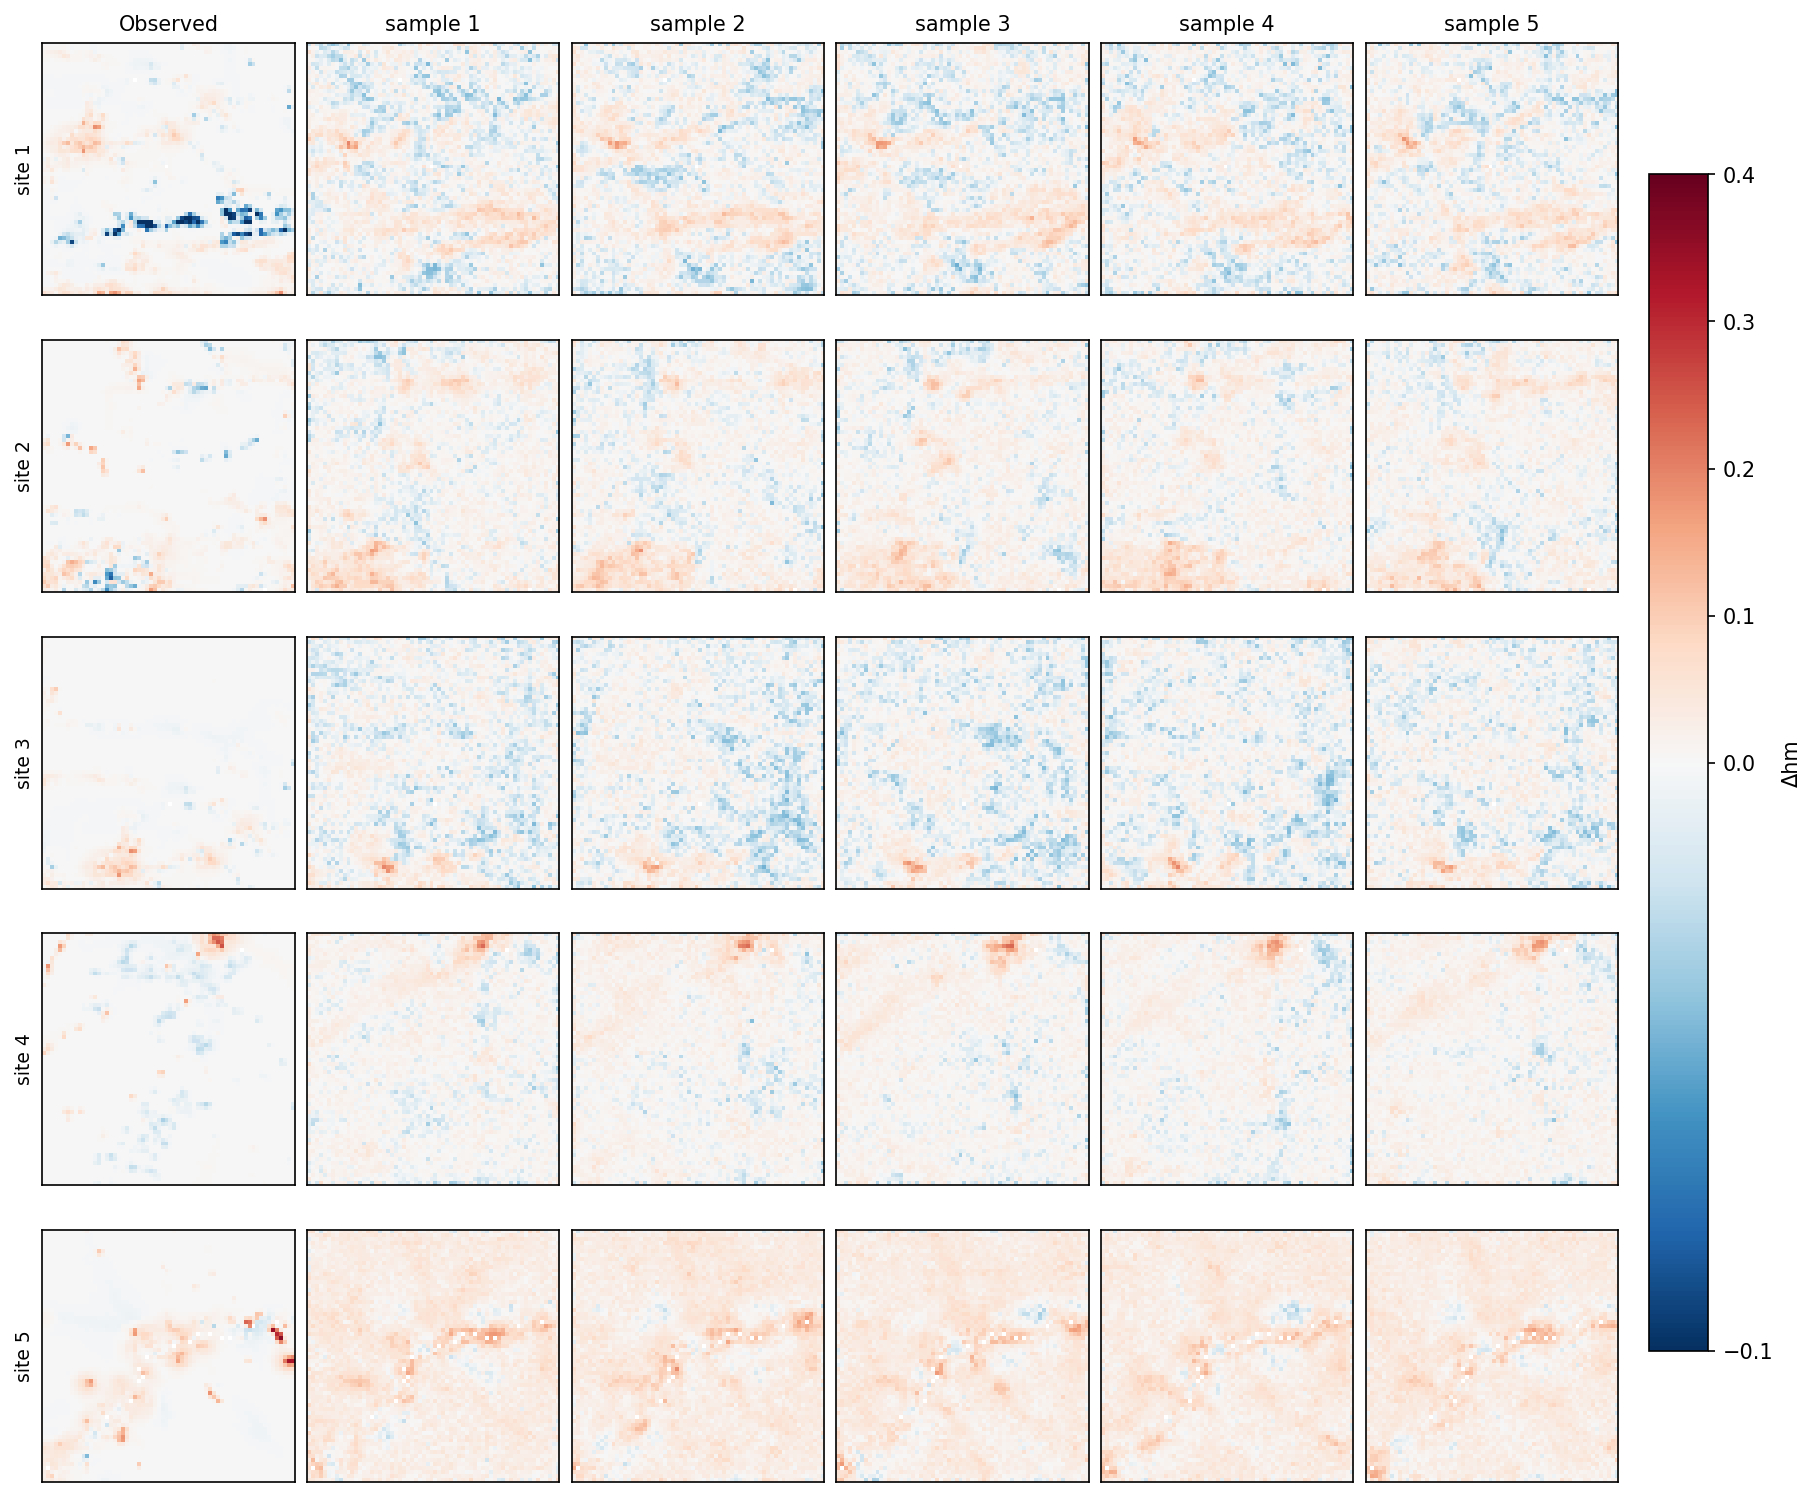
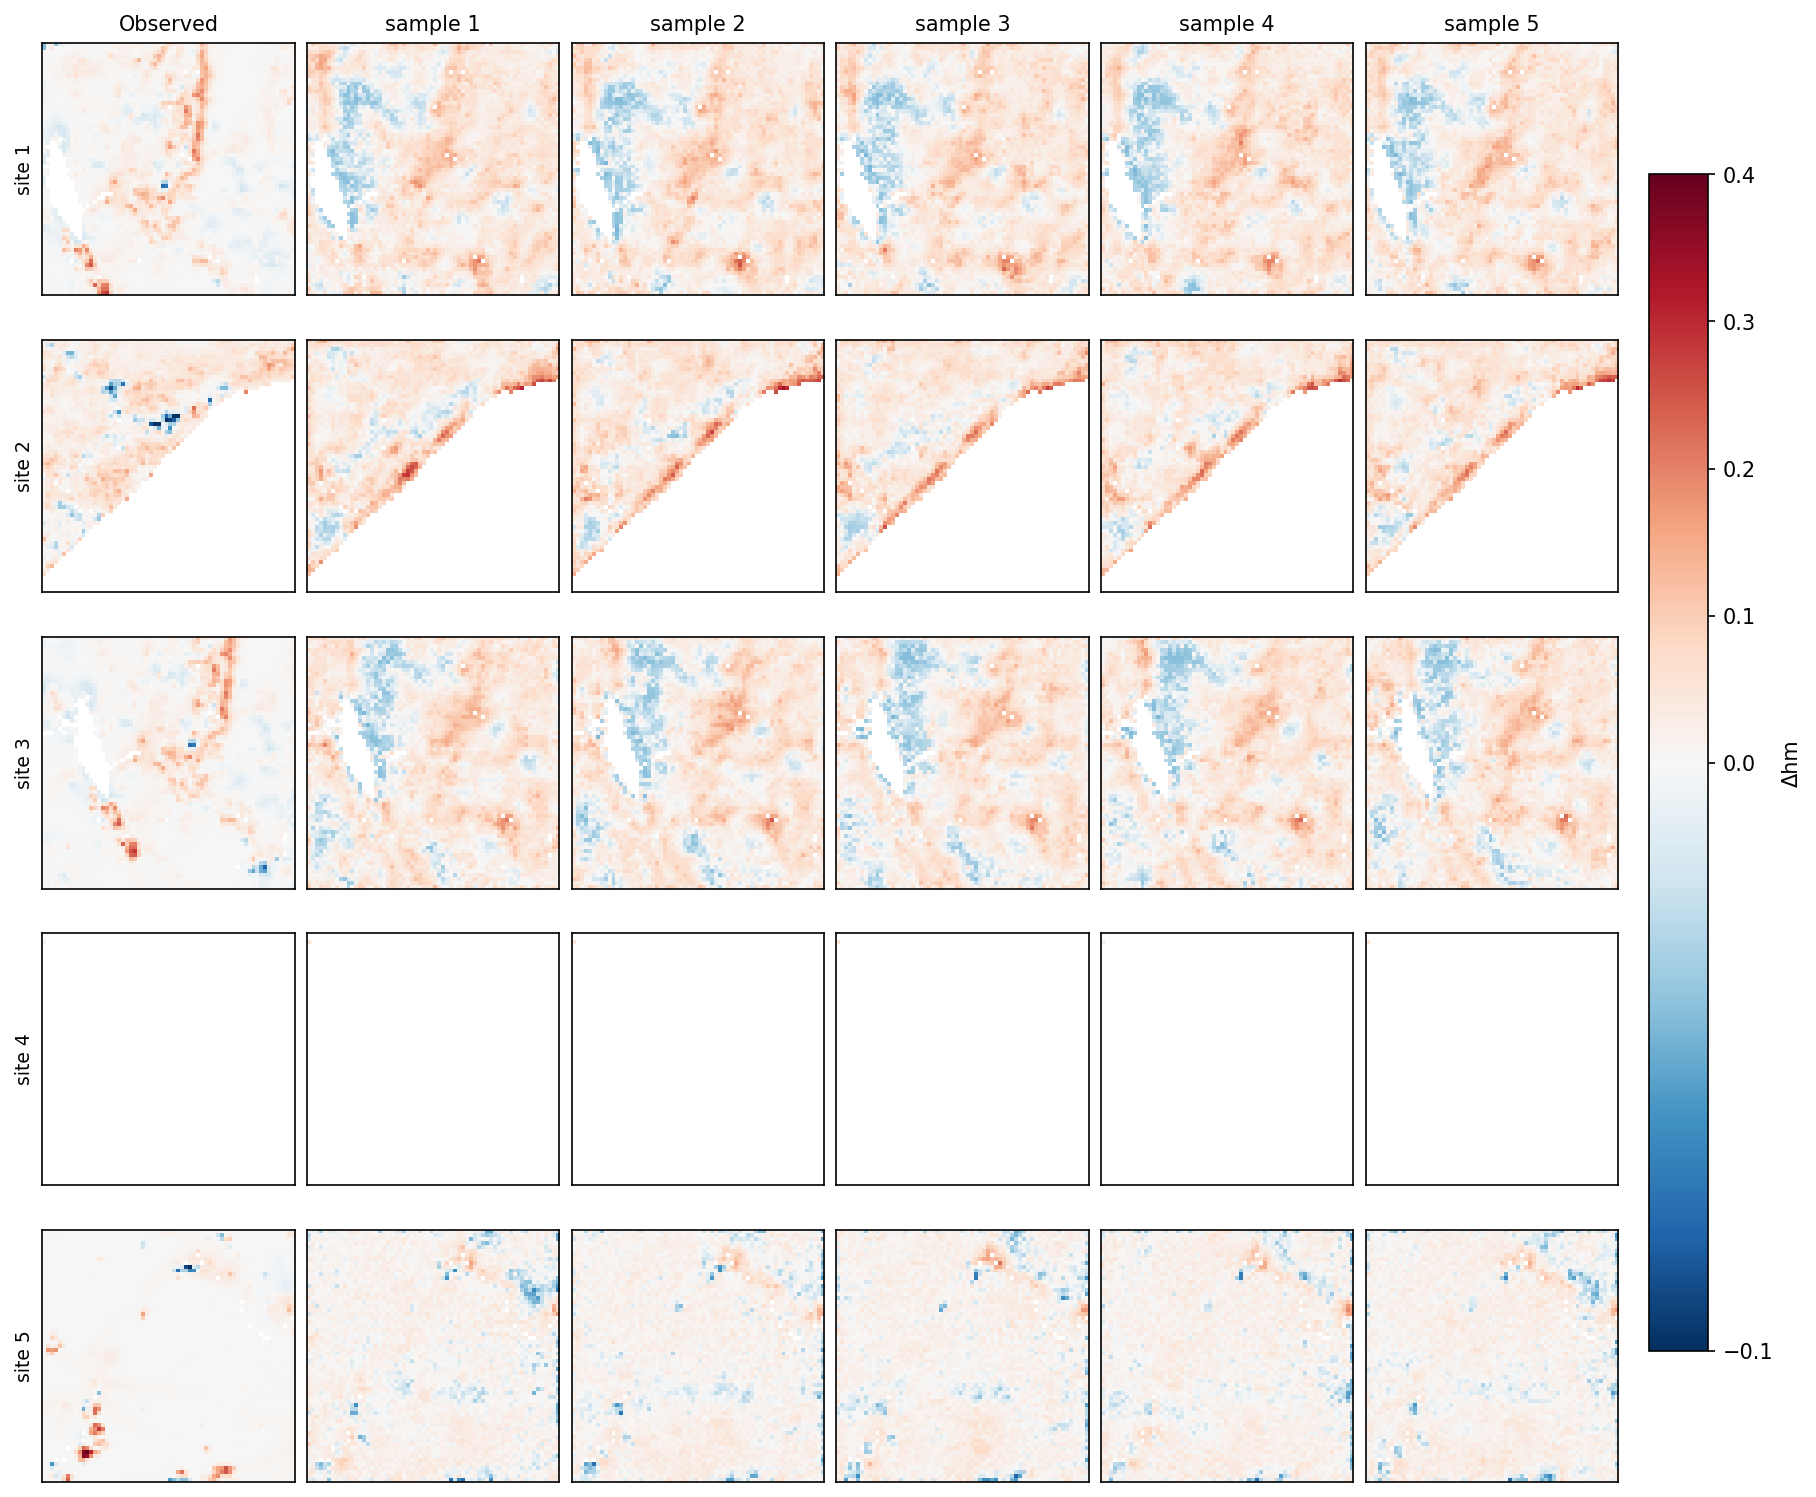
docs: add v26 to iteration history and as new tail-focused production
v26 = v25 settings + 100 epochs + n=64 ensemble. New operational best
for high-change bucket coverage. First iteration with non-zero coverage
on bin > 0.4 (5%) and POD@0.4 (8.7%). Bulk metrics also recovered
substantially (MAE 0.013, Pearson 0.678, coverage 0.83).

diff --git a/scripts/evaluate_diffusion.py b/scripts/evaluate_diffusion.py
@@ -614,12 +614,14 @@ Pixel-precise magnitude matching is *not* a goal.
 | v22 | 0.135 | 0.005 | 0.471 | 0.687 | 0.0051 | 0.952 | 0.256 | α=0.3 — mediocre middle |
 | v23 | **0.441** | 0.037 | 0.175 | 0.622 | 0.0279 | 0.485 | 0.413 | α=1.0 + 3× bulk anchors — best bin>0.1 cov |
 | v24 | 0.247 | 0.042 | 0.343 | 0.534 | 0.0129 | 0.718 | 0.389 | mw=0.3 — best balance bin>0.2 |
-| **v25** | 0.239 | **0.048** | 0.246 | 0.412 | 0.0209 | 0.543 | 0.411 | **mw=0.1 — best upper-tail; first q975→0.4** |
+| v25 | 0.239 | 0.048 | 0.246 | 0.412 | 0.0209 | 0.543 | 0.411 | mw=0.1 — first q975→0.4 |
+| **v26** | 0.247 | **0.061** | 0.289 | 0.678 | 0.0130 | 0.829 | **0.491** | **v25 + 100 epochs + n=64 ensemble — FIRST bin>0.4 cov (0.050)** |
 
 v13 was the architectural breakthrough (CorrDiff residual). v20 is
-the best **balanced** result. v24 is the best **bin>0.2 / balance**.
-v25 has the **best upper-tail** including first non-zero q975 reach
-to 0.4. Choice depends on which trade-off you want.
+the best **balanced** result. **v26** is the new best across the
+board — same losses as v25 but trained for 100 epochs (vs 30) and
+predicted with **n=64** ensemble (vs 32). First iteration with
+non-zero coverage on bin > 0.4 (5%) and POD@0.4 (8.7%).
 
 ### Production recipes
 
@@ -639,20 +641,23 @@ Inference:
   --ensemble_n 32 --m_target 0.7 --predict_stride 64
 ```
 
-**v25 — tail-focused** (best bin>0.2 cov, POD@0.2, q975 soft-POD@0.4):
+**v26 — tail-focused, new operational best** (first bin>0.4 cov,
+best across-the-board on tail AND nearly recovers v20 bulk):
 ```
 Training: v20 +
+  --max_epochs 100 (vs 30)
   --tile_mean_loss_weight 15.0 (vs 5.0)
   --wasserstein_loss_weight 0.5 (vs 0.2)
   --hist_loss_weight 1.0 (vs 0.3)
   --pattern_loss_weight 0.5 (vs 0.3)
   --mean_loss_weight 0.1 (vs 1.0)
   --mean_head_pixel_weight_alpha 1.0 --mean_head_pixel_weight_eps 0.01
-Inference: same as v20
+Inference:
+  --ensemble_n 64 --m_target 0.7 --predict_stride 64
 ```
 
 **v24 — middle ground** (decent bulk + decent tail): v25 settings but
-`--mean_loss_weight 0.3`.
+`--mean_loss_weight 0.3`, 30 epochs, n=32.
 
 The trade-off: stronger mean head pixel weighting (α=1.0) lifts hotspot
 predictions but pulls the bulk's median pred from +0.001 to ~+0.02.

diff --git a/docs/diffusion_v1_results.md b/docs/diffusion_v1_results.md
@@ -32,12 +32,14 @@ Pixel-precise magnitude matching is *not* a goal.
 | v22 | 0.135 | 0.005 | 0.471 | 0.687 | 0.0051 | 0.952 | 0.256 | α=0.3 — mediocre middle |
 | v23 | **0.441** | 0.037 | 0.175 | 0.622 | 0.0279 | 0.485 | 0.413 | α=1.0 + 3× bulk anchors — best bin>0.1 cov |
 | v24 | 0.247 | 0.042 | 0.343 | 0.534 | 0.0129 | 0.718 | 0.389 | mw=0.3 — best balance bin>0.2 |
-| **v25** | 0.239 | **0.048** | 0.246 | 0.412 | 0.0209 | 0.543 | 0.411 | **mw=0.1 — best upper-tail; first q975→0.4** |
+| v25 | 0.239 | 0.048 | 0.246 | 0.412 | 0.0209 | 0.543 | 0.411 | mw=0.1 — first q975→0.4 |
+| **v26** | 0.247 | **0.061** | 0.289 | 0.678 | 0.0130 | 0.829 | **0.491** | **v25 + 100 epochs + n=64 ensemble — FIRST bin>0.4 cov (0.050)** |
 
 v13 was the architectural breakthrough (CorrDiff residual). v20 is
-the best **balanced** result. v24 is the best **bin>0.2 / balance**.
-v25 has the **best upper-tail** including first non-zero q975 reach
-to 0.4. Choice depends on which trade-off you want.
+the best **balanced** result. **v26** is the new best across the
+board — same losses as v25 but trained for 100 epochs (vs 30) and
+predicted with **n=64** ensemble (vs 32). First iteration with
+non-zero coverage on bin > 0.4 (5%) and POD@0.4 (8.7%).
 
 ### Production recipes
 
@@ -57,20 +59,23 @@ Inference:
   --ensemble_n 32 --m_target 0.7 --predict_stride 64
 ```
 
-**v25 — tail-focused** (best bin>0.2 cov, POD@0.2, q975 soft-POD@0.4):
+**v26 — tail-focused, new operational best** (first bin>0.4 cov,
+best across-the-board on tail AND nearly recovers v20 bulk):
 ```
 Training: v20 +
+  --max_epochs 100 (vs 30)
   --tile_mean_loss_weight 15.0 (vs 5.0)
   --wasserstein_loss_weight 0.5 (vs 0.2)
   --hist_loss_weight 1.0 (vs 0.3)
   --pattern_loss_weight 0.5 (vs 0.3)
   --mean_loss_weight 0.1 (vs 1.0)
   --mean_head_pixel_weight_alpha 1.0 --mean_head_pixel_weight_eps 0.01
-Inference: same as v20
+Inference:
+  --ensemble_n 64 --m_target 0.7 --predict_stride 64
 ```
 
 **v24 — middle ground** (decent bulk + decent tail): v25 settings but
-`--mean_loss_weight 0.3`.
+`--mean_loss_weight 0.3`, 30 epochs, n=32.
 
 The trade-off: stronger mean head pixel weighting (α=1.0) lifts hotspot
 predictions but pulls the bulk's median pred from +0.001 to ~+0.02.
